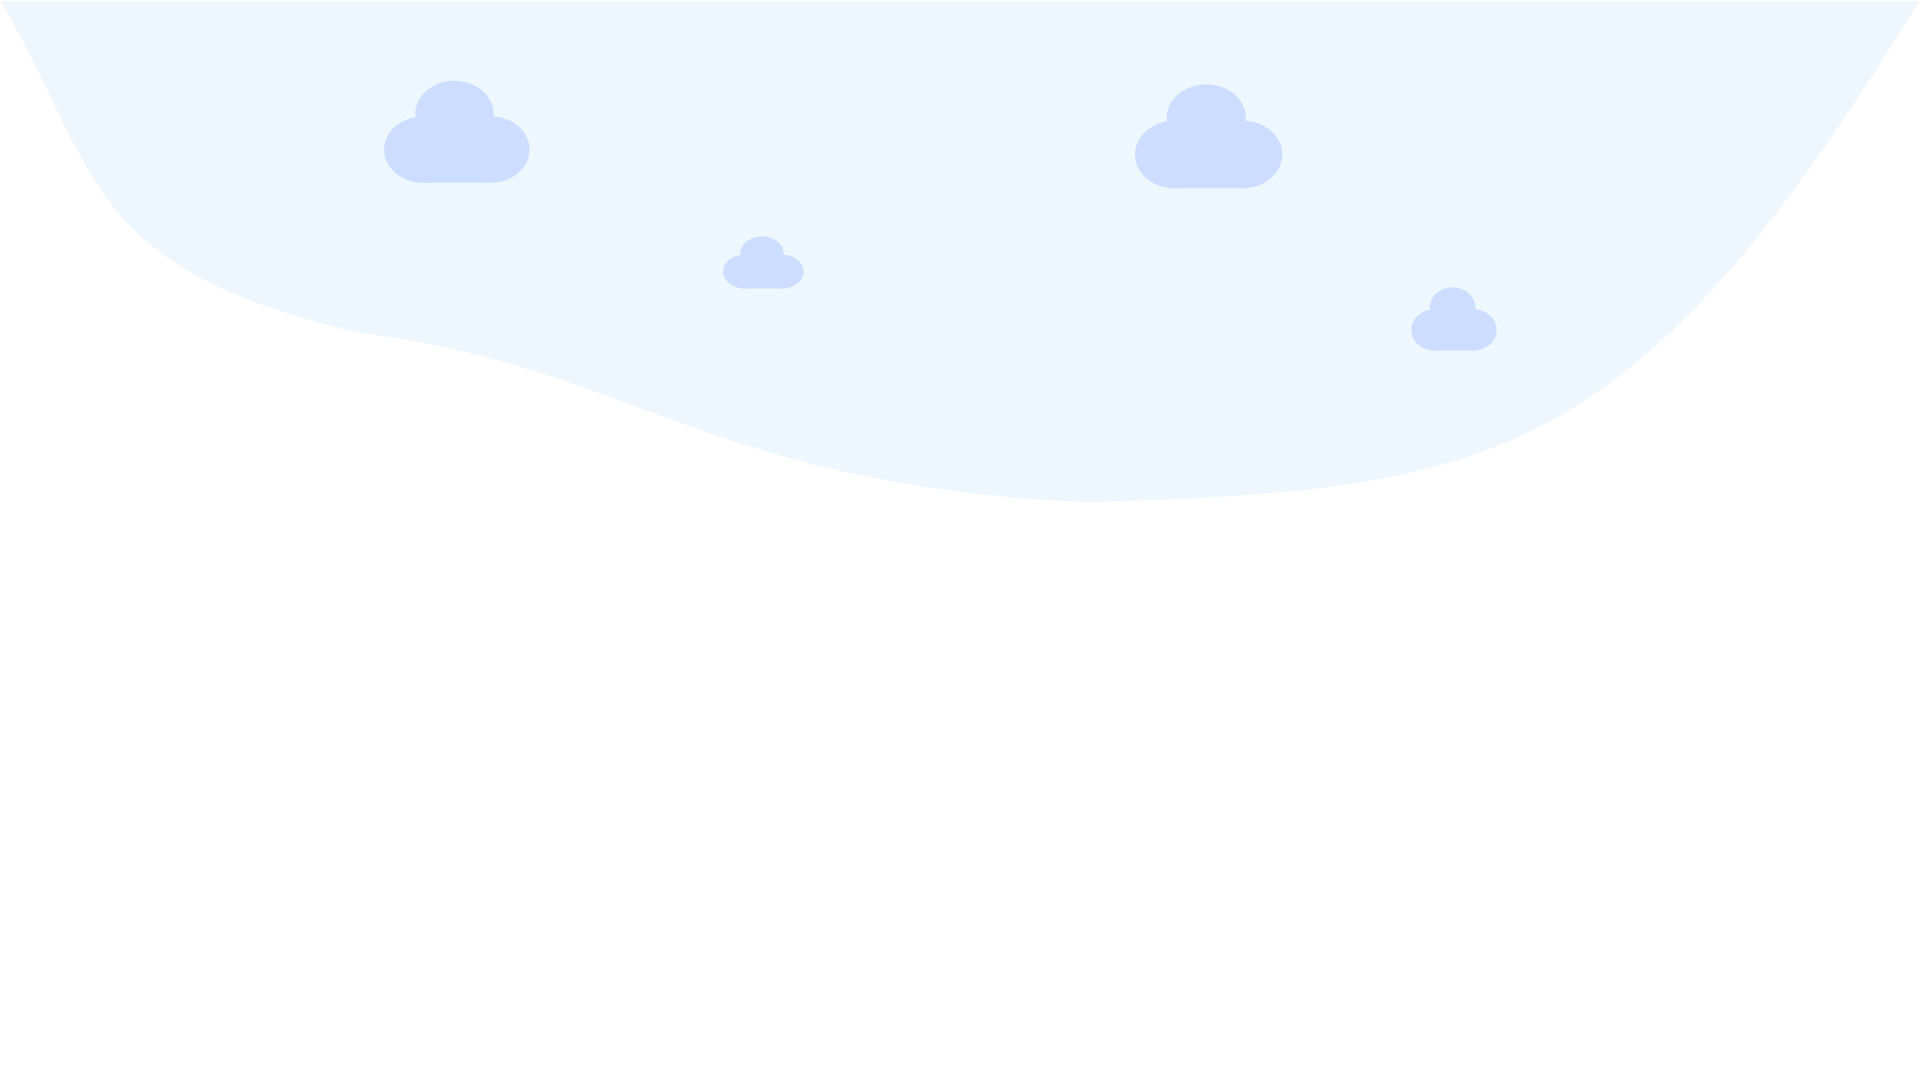
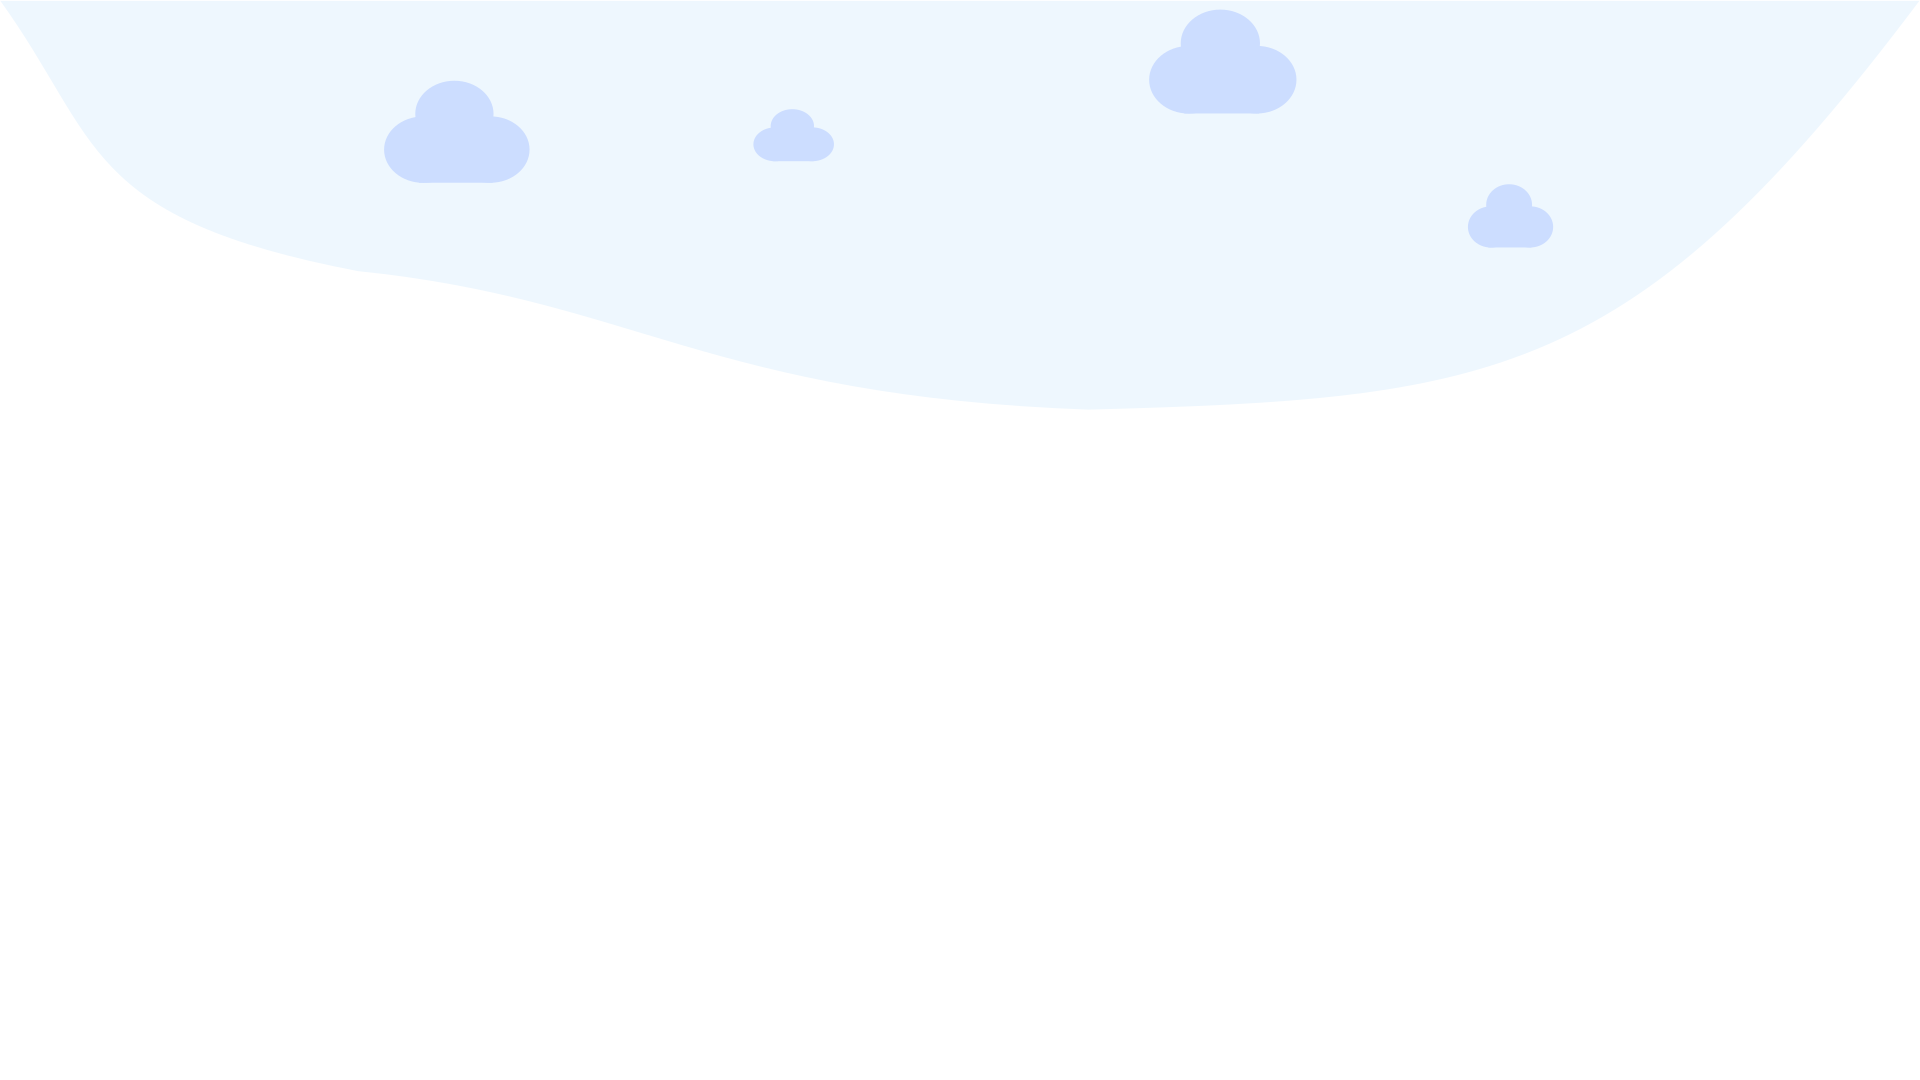
feat: update login background image

diff --git a/lib/presentation/login/view/login_page.dart b/lib/presentation/login/view/login_page.dart
@@ -22,7 +22,14 @@ class LoginPage extends StatelessWidget {
       body: SafeArea(
         child: Stack(
           children: [
-            Image.asset('assets/images/login_background.png'),
+            Container(
+              decoration: const BoxDecoration(
+                image: DecorationImage(
+                  image: AssetImage('assets/images/login_background.png'),
+                  fit: BoxFit.cover,
+                ),
+              ),
+            ),
             Padding(
               padding: EdgeInsets.only(top: _size.height * 0.1),
               child: Align(
